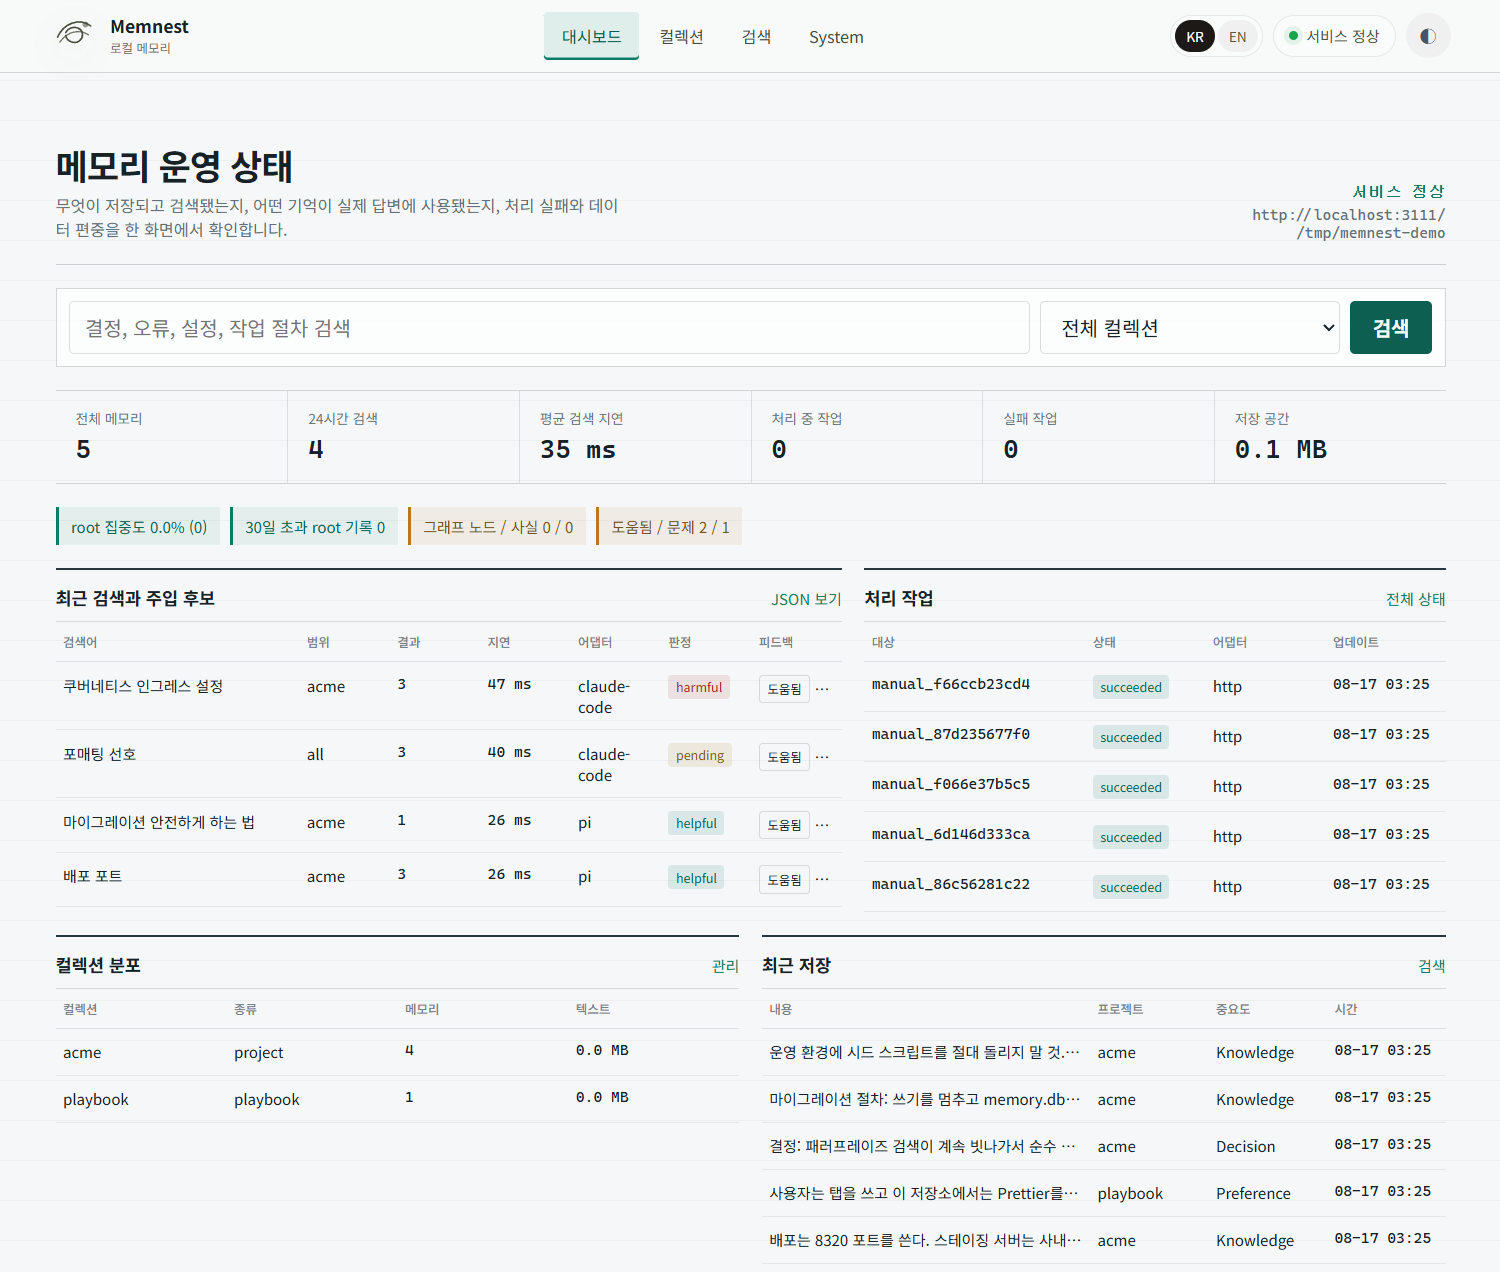
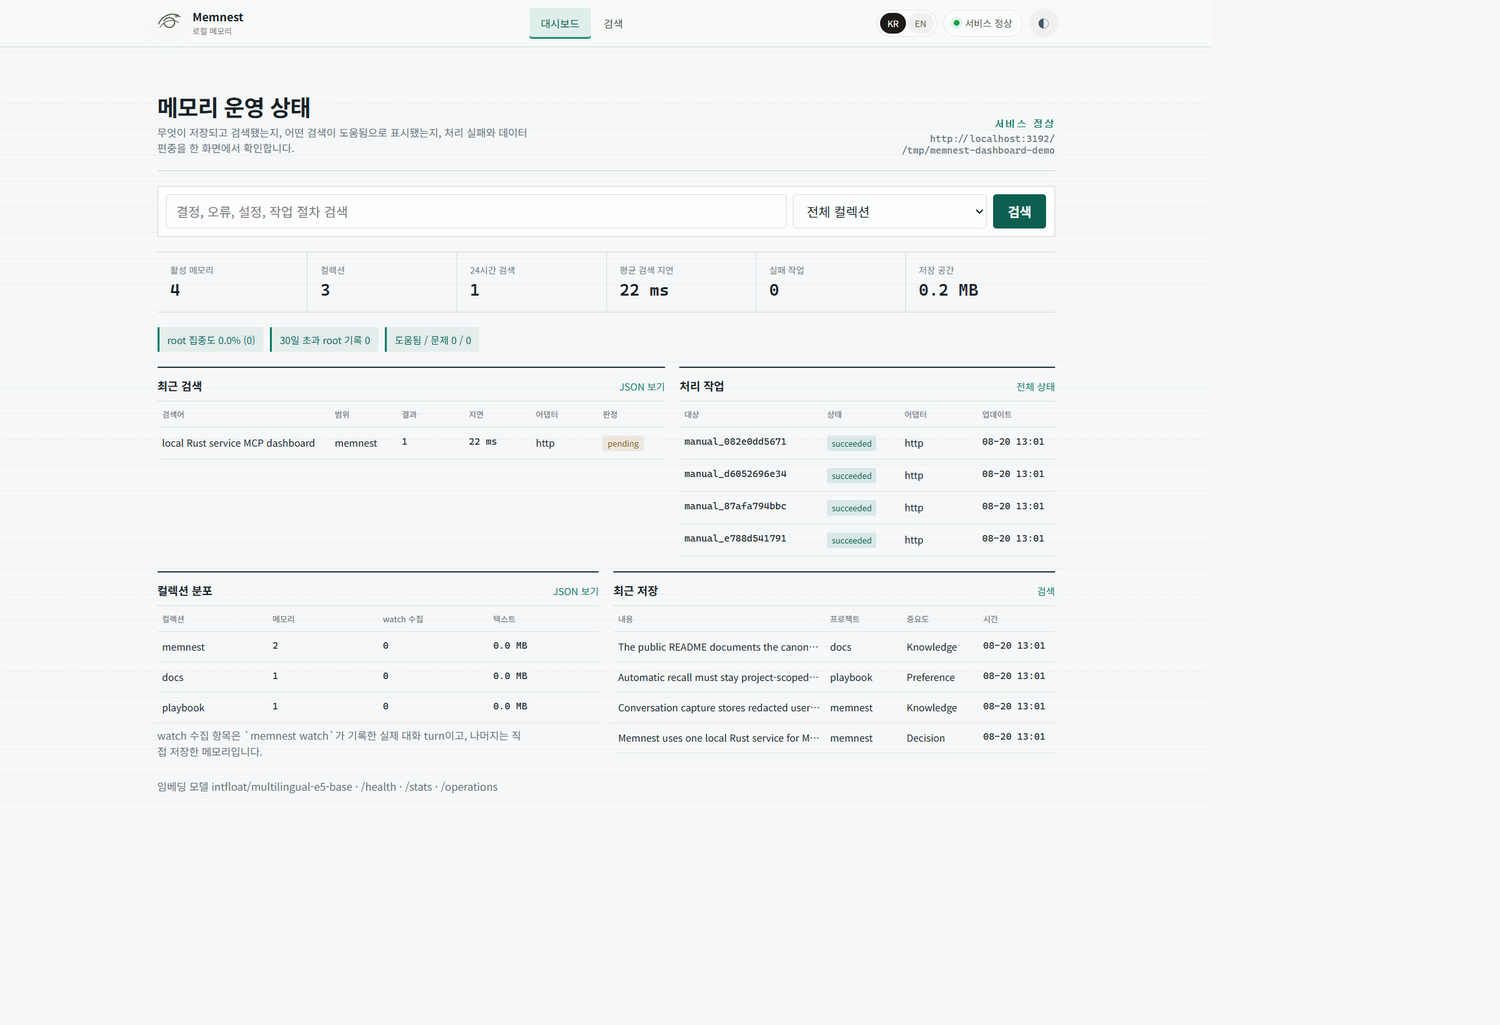
docs: add current architecture and refresh dashboard images

diff --git a/README.md b/README.md
@@ -22,6 +22,12 @@ Local memory for AI coding agents. Memnest stores durable memories and searchabl
 
 The Rust core does not call an LLM. Embeddings run locally with `intfloat/multilingual-e5-base`.
 
+## Architecture
+
+![memnest local-first architecture](docs/architecture.png)
+
+Tool traffic, prompt-time recall, and transcript capture share one Rust service while keeping separate, explicit data paths.
+
 ## Install
 
 ```bash
